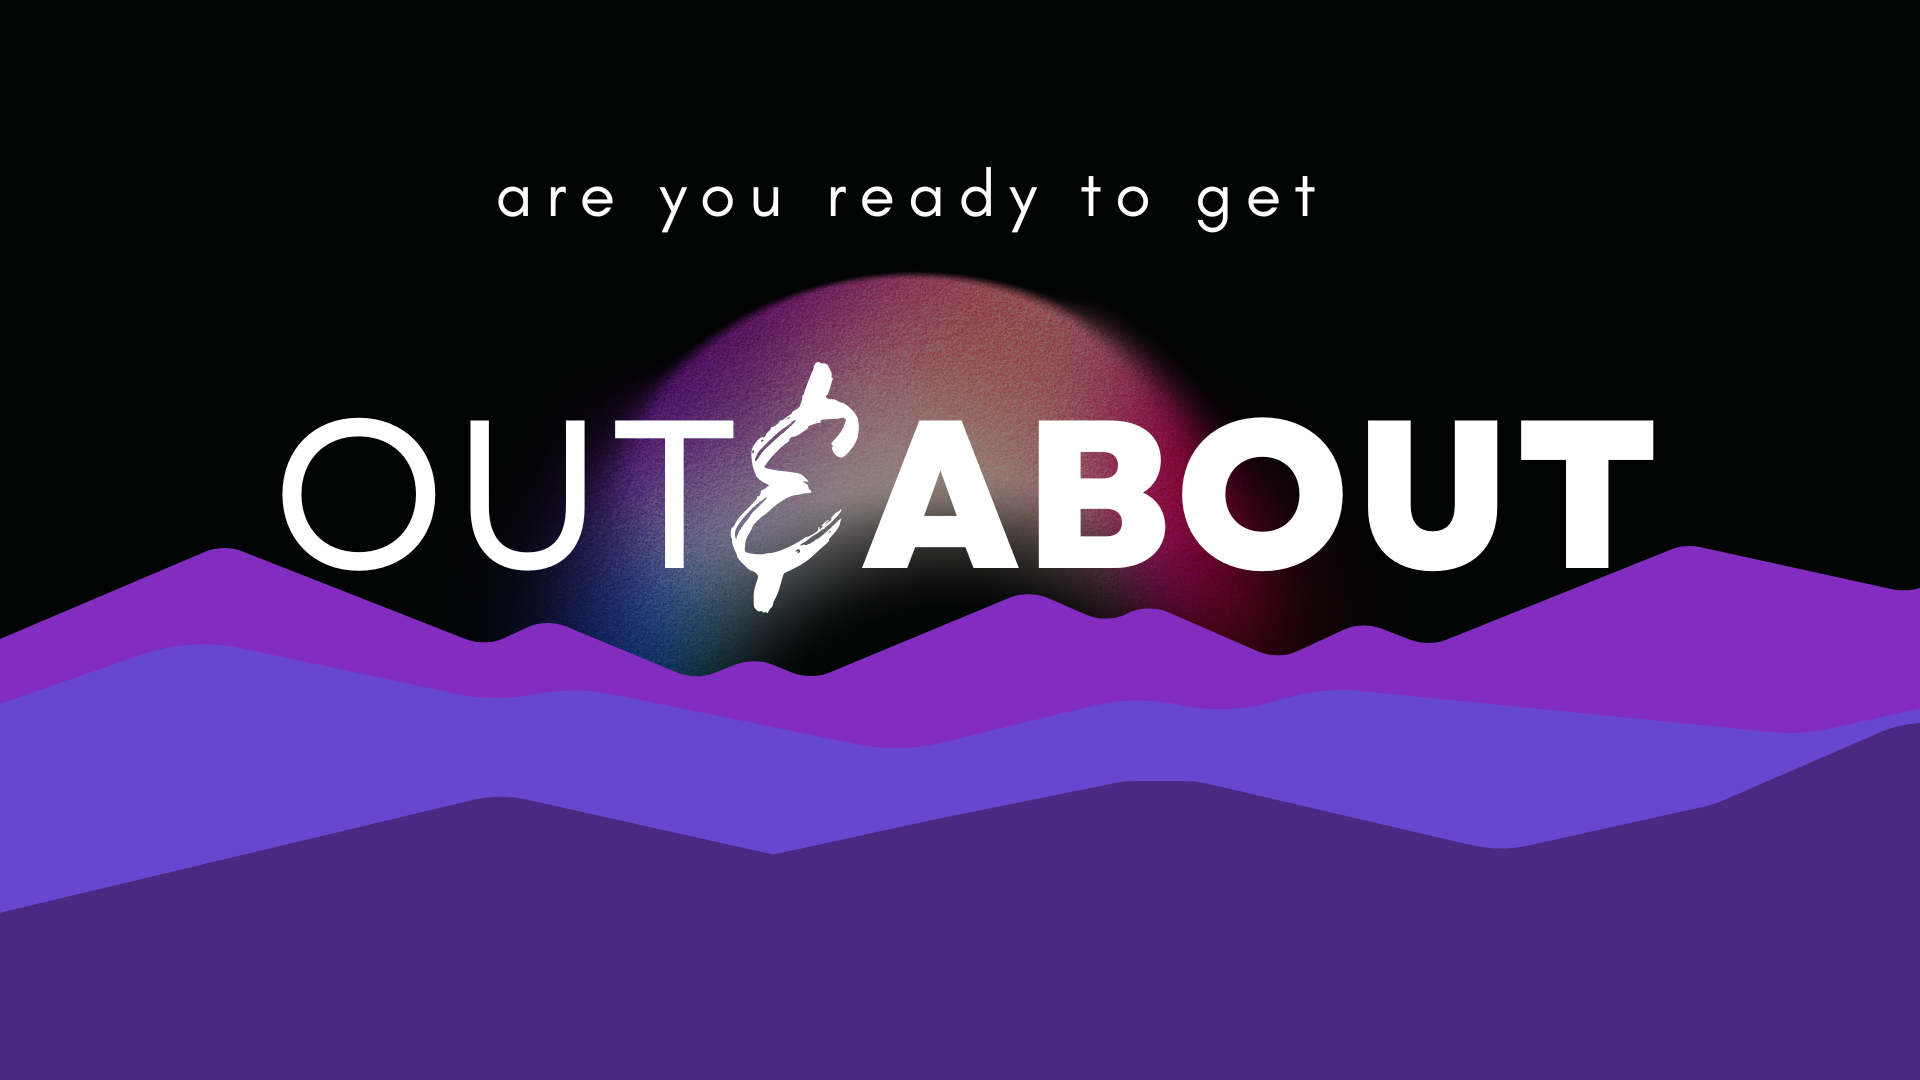
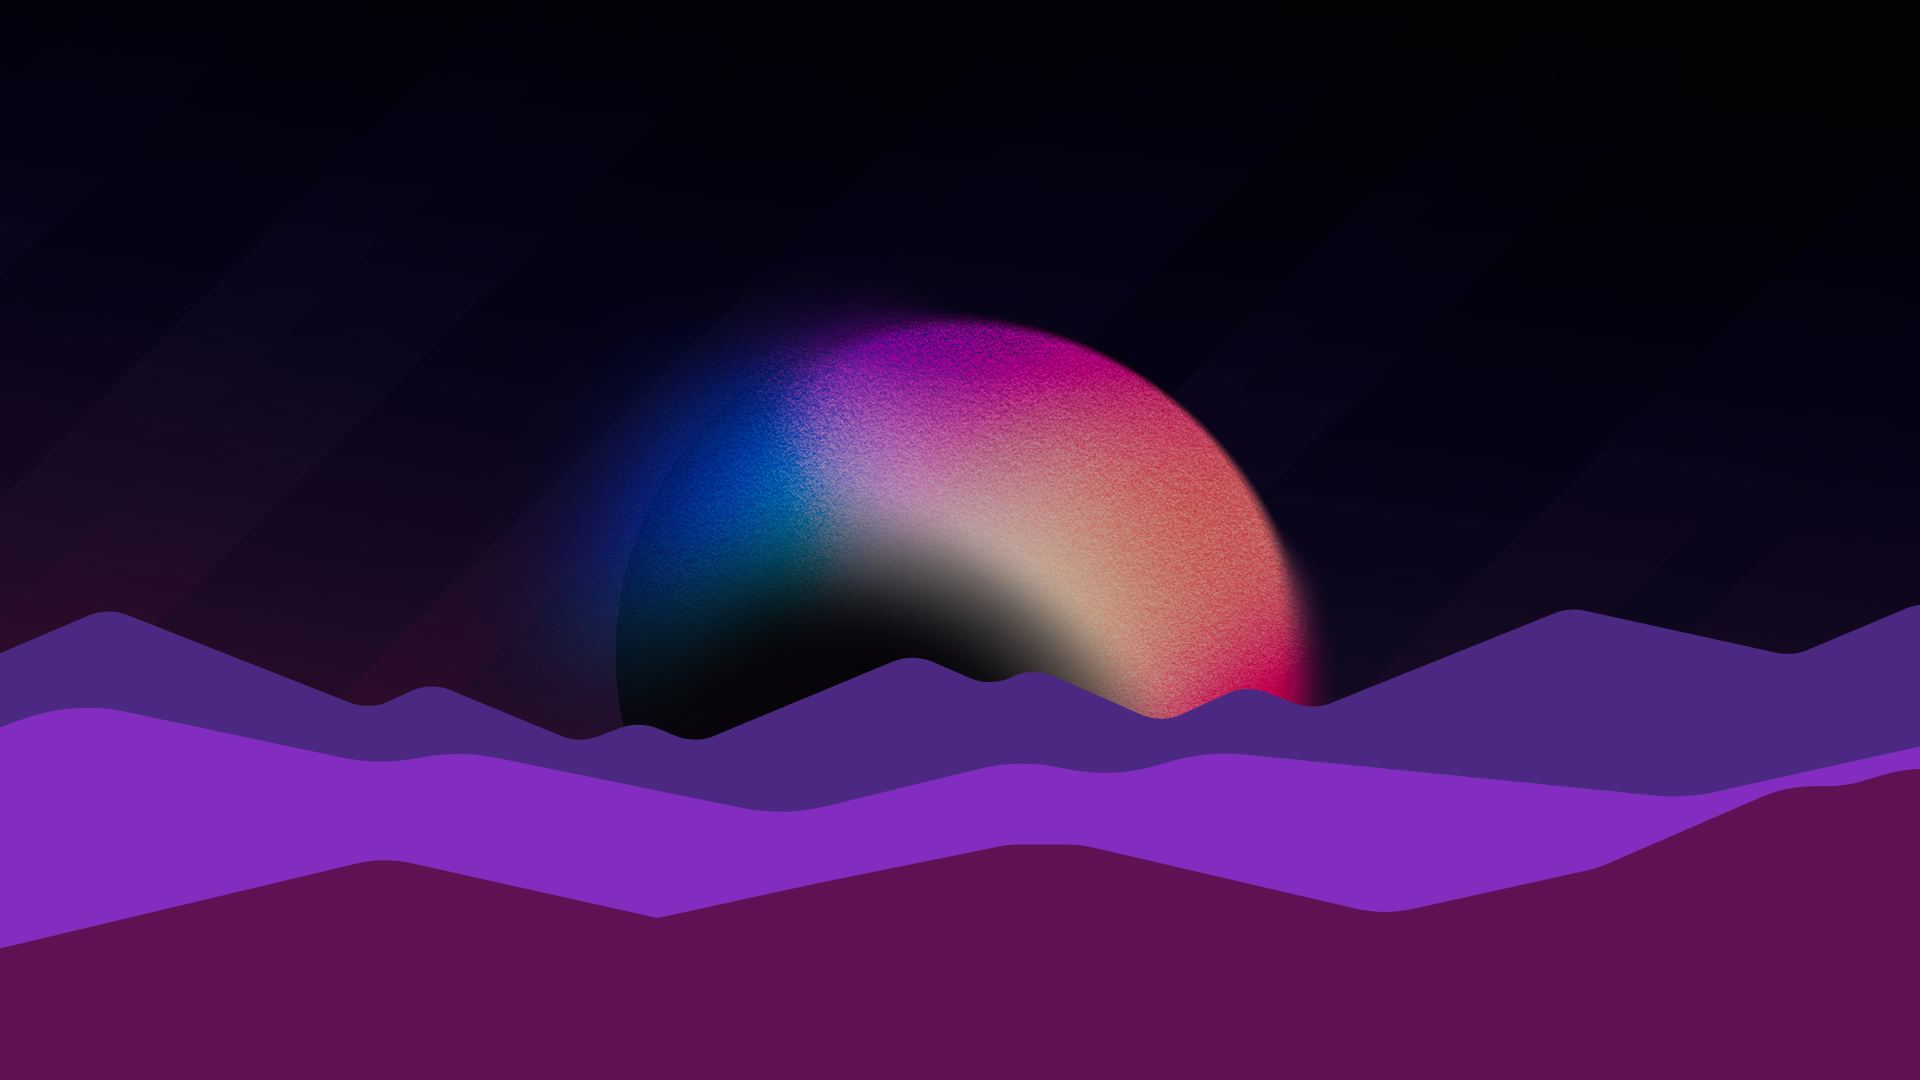
Updated landing flex and styling

diff --git a/client/src/components/Home.js b/client/src/components/Home.js
@@ -1,58 +1,38 @@
 import React from "react";
-import { useNavigate } from "react-router-dom";
 import { ThemeProvider } from "@mui/material/styles";
-import { Button } from "@mui/material";
+import { Box, Grid, Typography } from "@mui/material";
 import inputTheme from "./../style/theme";
+import Signup from "../pages/Signup";
 
 const mainStyle = {
   width: "100vw",
 };
 
-const btnStyles = {
-  marginBottom: "15px",
-  backgroundColor: "white",
-  color: "#981FC2",
-  width: "40vw",
-  height: "7vh",
-};
-
 const Home = () => {
-  const navigate = useNavigate();
-
-  const btnHandle = () => {
-    console.log("hello landing page button");
-    navigate("/signup");
-  };
   return (
     <main style={mainStyle}>
       <ThemeProvider theme={inputTheme}>
         <div className="hero hero-image">
-          <div
-            style={{
-              display: "flex",
-              flexDirection: "column",
-              alignItems: "Center",
-              textAlign: "center",
-              color: "white",
-              maxWidth: "70%",
-              backgroundColor: "RGBA(72,42,129,0.75)",
-            }}
-          >
-            <p>
-              Are you tired of walking alone and want to add some excitement to
-              your daily routine? Join your local community Out & About to
-              complete quests, solve riddles, and earn rewards all while making
-              new friends along the way.
-            </p>
-            <Button
-              size="large"
-              style={btnStyles}
-              variant="contained"
-              onClick={btnHandle}
-            >
-              Sign up today!
-            </Button>
-          </div>
+          <Box sx={{ flexGrow: 1, maxWidth: "80%" }}>
+            <Grid container spacing={2}>
+              <Grid item xs={12} md={8}>
+                <Typography variant="h2" marginY={5}>
+                  Want to add some excitement to your daily routine?
+                </Typography>
+                <Typography variant="subtitle1" marginTop={5}>
+                  Sign up to Out&About to complete quests, solve riddles, and
+                  earn rewards by walking around your local area while making
+                  new friends along the way.
+                </Typography>
+              </Grid>
+              <Grid item xs={12} md={4}>
+                <Typography variant="h5" marginTop={5}>
+                  Join Out&About today!
+                </Typography>
+                <Signup />
+              </Grid>
+            </Grid>
+          </Box>
         </div>
       </ThemeProvider>
     </main>

diff --git a/client/src/style/theme.js b/client/src/style/theme.js
@@ -3,10 +3,53 @@ import { createTheme } from "@mui/material/styles";
 const inputTheme = createTheme({
   typography: {
     fontFamily: ["Roboto", "Helvetica"],
+    h2: {
+      color: "white",
+      fontWeight: "400",
+      fontSize: "2.5rem",
+      letterSpacing: 2,
+      textAlign: "center",
+      "@media (min-width:1000px)": {
+        fontSize: "3.7rem",
+        textAlign: "left",
+      },
+      "@media (min-width:1200px)": {
+        fontSize: "4rem",
+        textAlign: "left",
+      },
+    },
+    h5: {
+      fontSize: "1.5rem",
+      color: "white",
+      textAlign: "center",
+      "@media (min-width:900px)": {
+        textAlign: "left",
+      },
+    },
+    subtitle1: {
+      fontSize: "1rem",
+      color: "white",
+      textAlign: "center",
+      "@media (min-width:900px)": {
+        fontSize: "1.2rem",
+        textAlign: "left",
+      },
+      "@media (min-width:1200px)": {
+        fontSize: "1.5rem",
+        textAlign: "left",
+      },
+    },
+    palette: {
+      primary: {
+        main: "#981FC2",
+      },
+    },
   },
-  palette: {
-    primary: {
-      main: "#981FC2",
+  components: {
+    MuiStack: {
+      defaultProps: {
+        useFlexGap: true,
+      },
     },
   },
 });

diff --git a/client/src/style/app.css b/client/src/style/app.css
@@ -3,32 +3,34 @@
 .map-container {
     height: 400px;
   }
-  
 
 .hero{
   display:flex;
-  align-items: flex-end;
   justify-content: space-around;
   flex-wrap: wrap;
   margin-bottom: 1rem;
-  height: 80vh;
+  height: 85vh;
   margin-left: 0 !important;
 }
 
 .hero-image{
   background-image: url("./../assets/hero.png") ;
   background-size: cover;
-  background-position: center 40%;
+  background-position: center;
 }
 
 .badge{
   width: 10vw;
 }
 
-@media (max-width:950px){
+.title {
+  
+}
+
+/* @media (max-width:950px){
   .hero-image{
     background-image: url("./../assets/heroMini.png") ;
     background-size: cover;
     background-position: center 40%;
   }
-}
+} */

diff --git a/client/src/App.js b/client/src/App.js
@@ -59,8 +59,6 @@ export default function App() {
               <Route path="/" element={<Home />} />
               <Route path="/dashboard" element={<Dashboard />} />
               <Route path="/me" element={<Profile />} />
-              {/* <Route path="/profiles/:username" element={<Profile />} /> */}
-              {/* <Route path="/me/friends" element={<Friend />} /> */}
               <Route path="/login" element={<Login />} />
               <Route path="/signup" element={<Signup />} />
               <Route path="/qrcode" element={<QRCode />} />

diff --git a/client/src/index.css b/client/src/index.css
@@ -1106,34 +1106,6 @@ a:hover {
   background-color: #31a9e1;
 }
 
-.card {
-  border: 1px solid #1a1a1a;
-  margin-bottom: 1rem;
-}
-
-.card .card-header {
-  padding: 0.375rem;
-  background-color: #2d3e50;
-  color: #d9e9e8;
-}
-
-.card .card-body {
-  padding: 0.375rem;
-}
-
-.card .card-footer {
-  border-top: 1px solid #1a1a1a;
-  padding: 0.375rem;
-}
-
-.card.card-rounded {
-  border-radius: 0.3rem;
-}
-
-.card.card-rounded .card-header {
-  border-radius: calc(0.18rem - 1px) calc(0.18rem - 1px) 0 0;
-}
-
 form {
   width: 100%;
 }

diff --git a/client/src/index.js b/client/src/index.js
@@ -5,10 +5,3 @@ import "./index.css";
 import App from "./App";
 
 ReactDOM.render(<App />, document.getElementById("root"));
-
-// const root = ReactDOM.createRoot(document.getElementById("root"));
-// root.render(
-//   <React.StrictMode>
-//     <App />
-//   </React.StrictMode>
-// );
